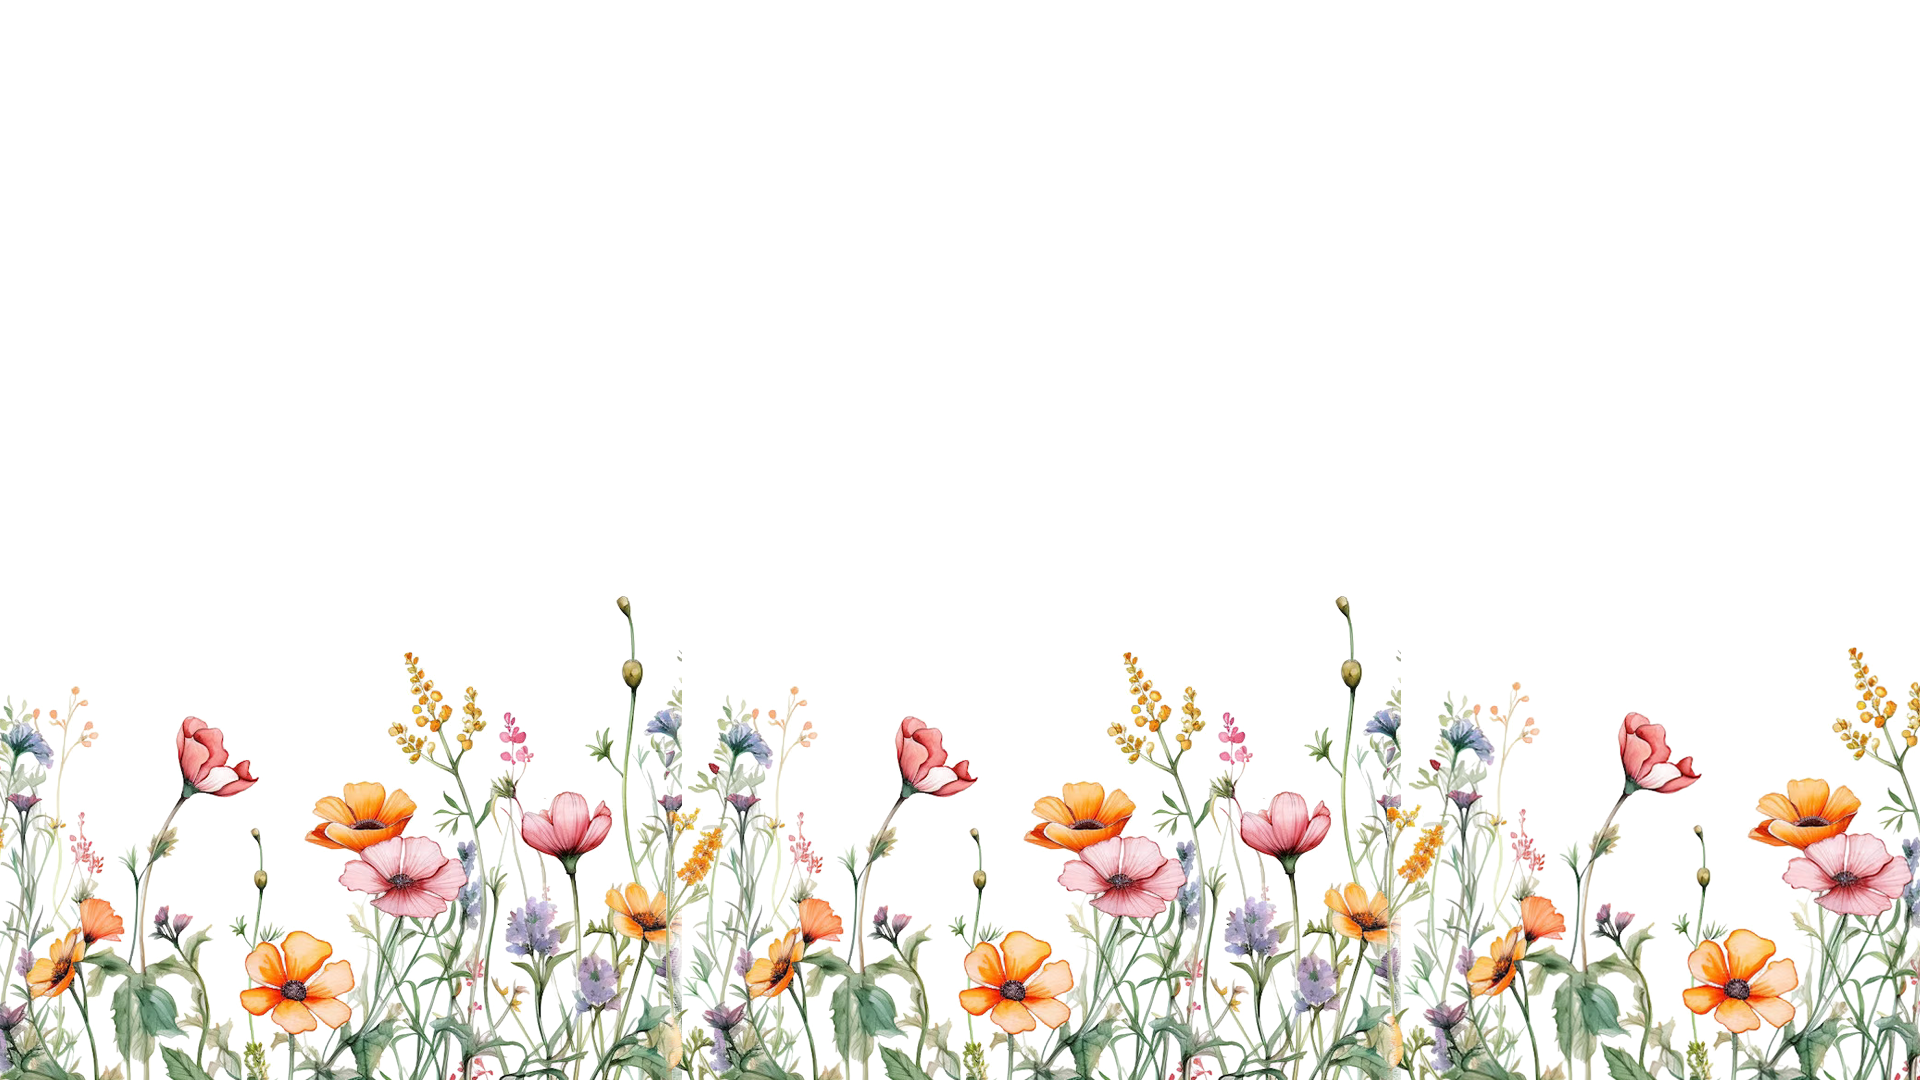
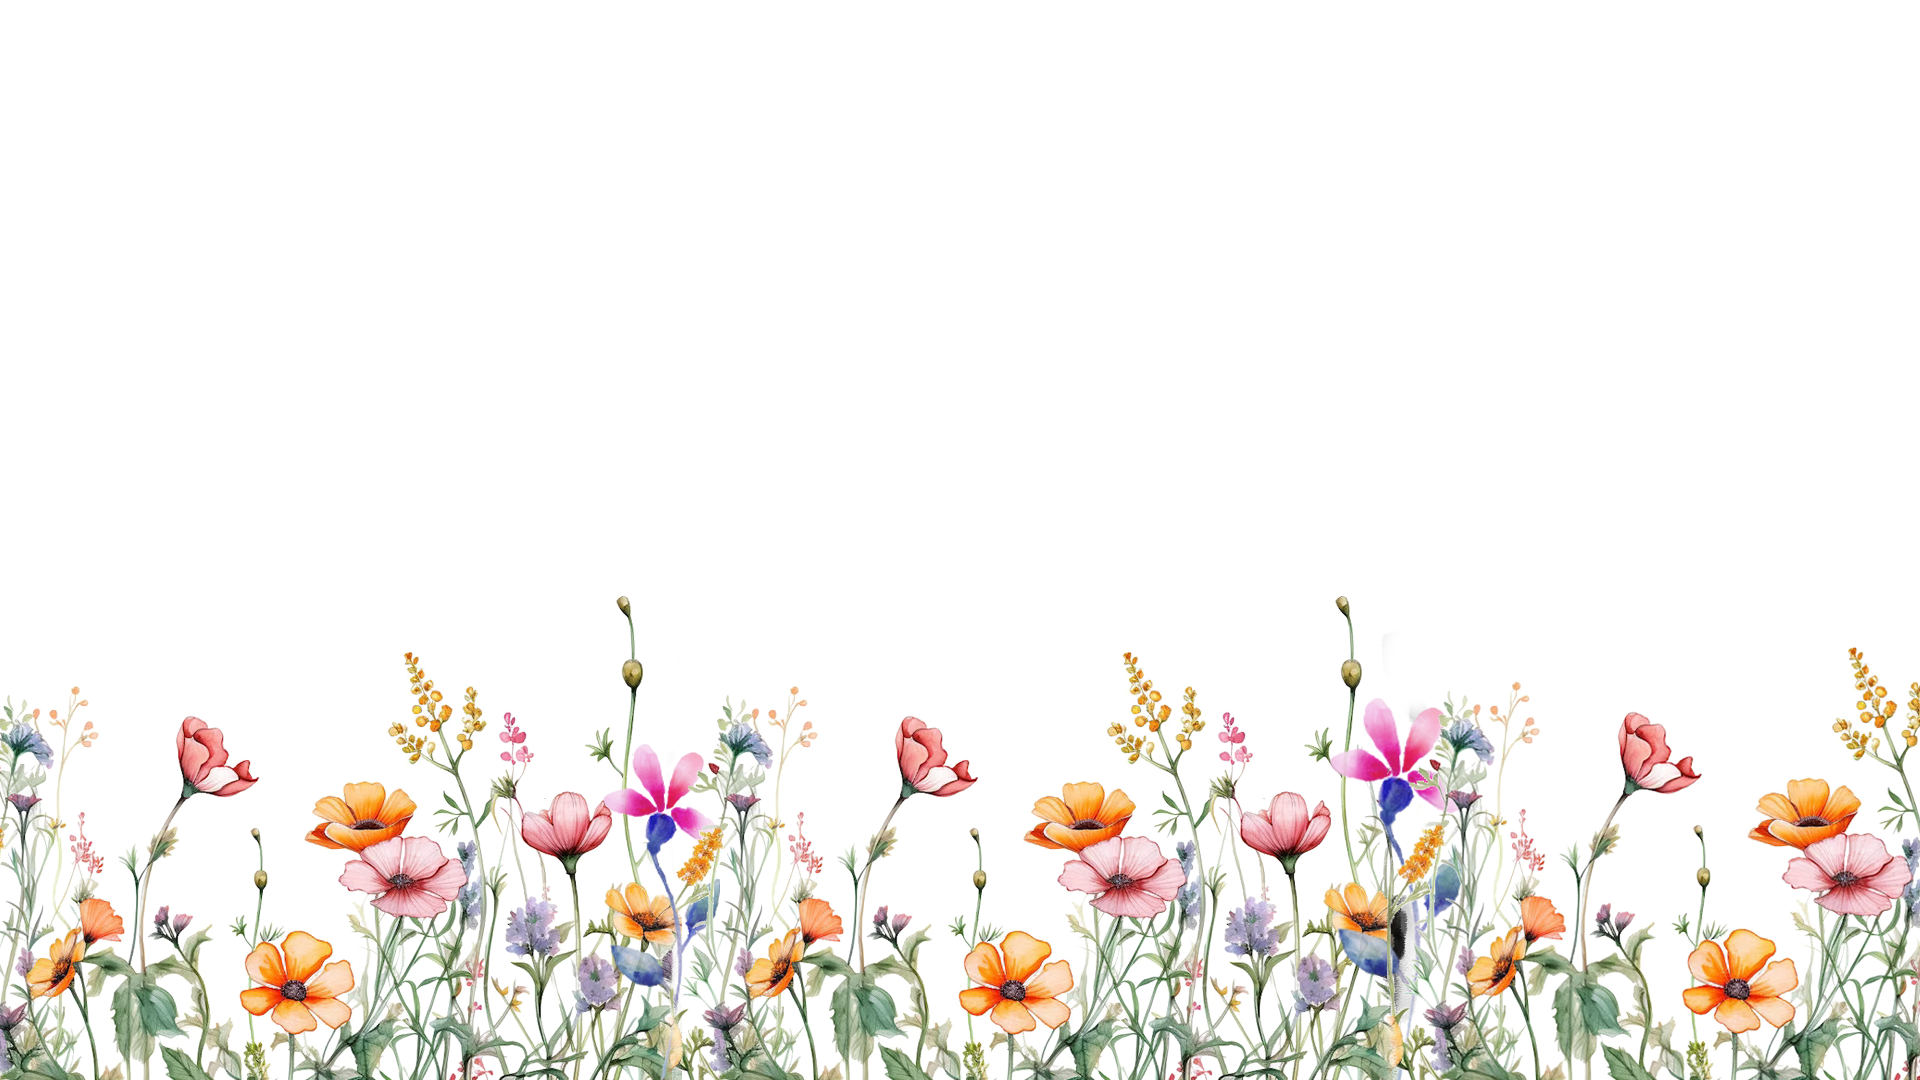
Add flowers

Changed region(s): [[0.6875, 0.6417, 0.7812, 0.9472], [0.3125, 0.6417, 0.375, 0.9167]]

diff --git a/src/App.scss b/src/App.scss
@@ -57,15 +57,114 @@ body {
     max-width: 100%;
   }
 
+  &.flower1 {
+    width: 14%;
+    top: 18em;
+    left: 16em;
+    transform: rotate(10deg);
+  }
+
+  &.flower2 {
+    width: 9%;
+    left: -45px;
+    transform: rotate(25deg);
+  }
+
+  &.flower3 {
+    width: 14%;
+    right: 6em;
+    bottom: 15em;
+    transform: rotate(30deg);
+  }
+
+  &.flower4 {
+    width: 12%;
+    right: 15em;
+    top: 5em;
+    transform: rotate(30deg);
+  }
+
+  &.flower5 {
+    width: 16%;
+    bottom: 14em;
+    left: 6em;
+    transform: rotate(30deg);
+  }
+
   @media only screen and (max-width: 1180px) {
     &.top-flowers {
       top: -7em;
+    }
+
+    &.flower1 {
+      width: 25%;
+      top: 25em;
+      left: 5em;
+      transform: rotate(10deg);
+    }
+
+    &.flower2 {
+      left: -40px;
+      width: 15%;
+      top: 10em;
+    }
+
+    &.flower3 {
+      width: 20%;
+      bottom: 25em;
+      right: 0;
+      transform: rotate(0deg);
+    }
+
+    &.flower4 {
+      width: 18%;
+      right: 5em;
+      top: 14em;
+      transform: rotate(-30deg);
+    }
+
+    &.flower5 {
+      width: 25%;
+      bottom: 28em;
+      left: 0;
     }
   }
   
   @media only screen and (max-width: 480px) {
     &.top-flowers {
       top: 0;
+    }
+
+    &.flower1 {
+      left: 0;
+      top: 23em;
+      width: 30%;
+    }
+
+    &.flower2 {
+      left: -15px;
+      width: 15%;
+      top: 10em;
+    }
+
+    &.flower3 {
+      width: 25%;
+      bottom: 14em;
+      right: 0em;
+      transform: rotate(0deg);
+    }
+
+    &.flower4 {
+      width: 22%;
+      right: 1em;
+      top: 13em;
+      transform: rotate(-20deg);
+    }
+
+    &.flower5 {
+      width: 40%;
+      bottom: 15em;
+      left: -3em;
     }
   }
 }

diff --git a/src/App.tsx b/src/App.tsx
@@ -13,6 +13,12 @@ import OrderOfTheDayPage from "./pages/OrderOfTheDayPage";
 function App() {
   return (
     <>
+      <img src="/flowers/1.png" className="flowers flower1" />
+      <img src="/flowers/2.png" className="flowers flower2" />
+      <img src="/flowers/3.png" className="flowers flower3" />
+      <img src="/flowers/4.png" className="flowers flower4" />
+      <img src="/flowers/5.png" className="flowers flower5" />
+      {/* <img src="/flowers/6.png" className="flowers flower6" /> */}
       <div className="container">
         <img src="/top-flowers.png" className="flowers top-flowers" />
         <div className="row">
@@ -35,7 +41,6 @@ function App() {
             <Outlet />
           </div>
         </div>
-        {/* <img src="/bottom-flowers.png" className="flowers bottom-flowers" /> */}
       </div>
     </>
   );

diff --git a/src/pages/HomePage.tsx b/src/pages/HomePage.tsx
@@ -19,7 +19,9 @@ function HomePage() {
           Vianca
         </h1>
         <h1 style={{ fontSize: "3em" }}>&</h1>
-        <h1 className="homepage-names">Ervin</h1>
+        <h1 className="homepage-names" style={{ marginBottom: "-35px" }}>
+          Ervin
+        </h1>
       </div>
       <div>
         <h3 style={{ letterSpacing: "4px" }}>June 12, 2025</h3>

diff --git a/src/pages/DressPage.scss b/src/pages/DressPage.scss
@@ -1,7 +1,7 @@
 .dress-container {
   text-align: center;
   padding: 20px;
-  margin-top: 100px;
+  margin-top: 200px;
 
   .dress-color {
     display: block;
@@ -14,6 +14,7 @@
     margin: auto;
     width: 100%;
     border-radius: 40px;
+    margin-bottom: 10em;
   }
 
   @media only screen and (max-width: 1180px) {

diff --git a/src/pages/HomePage.scss b/src/pages/HomePage.scss
@@ -2,11 +2,6 @@
   text-align: center;
   padding: 20px;
   margin-top: 100px;
-
-  // background-image: url("/bg-body1.png");
-  // background-repeat: no-repeat;
-  // background-position: bottom;
-  // background-size: 100%;
 }
 
 .homepage-names {

diff --git a/src/pages/RsvpPage.scss b/src/pages/RsvpPage.scss
@@ -1,7 +1,7 @@
 .rsvp-container {
   text-align: center;
   padding: 20px;
-  margin-top: 100px;
+  margin-top: 200px;
 
   .rsvp-desc {
     width: 100%;

diff --git a/src/pages/VenuePage.scss b/src/pages/VenuePage.scss
@@ -11,5 +11,6 @@
     margin: auto;
     padding: 20px;
     border-radius: 20px;
+    margin-bottom: 15em;
   }
 }
